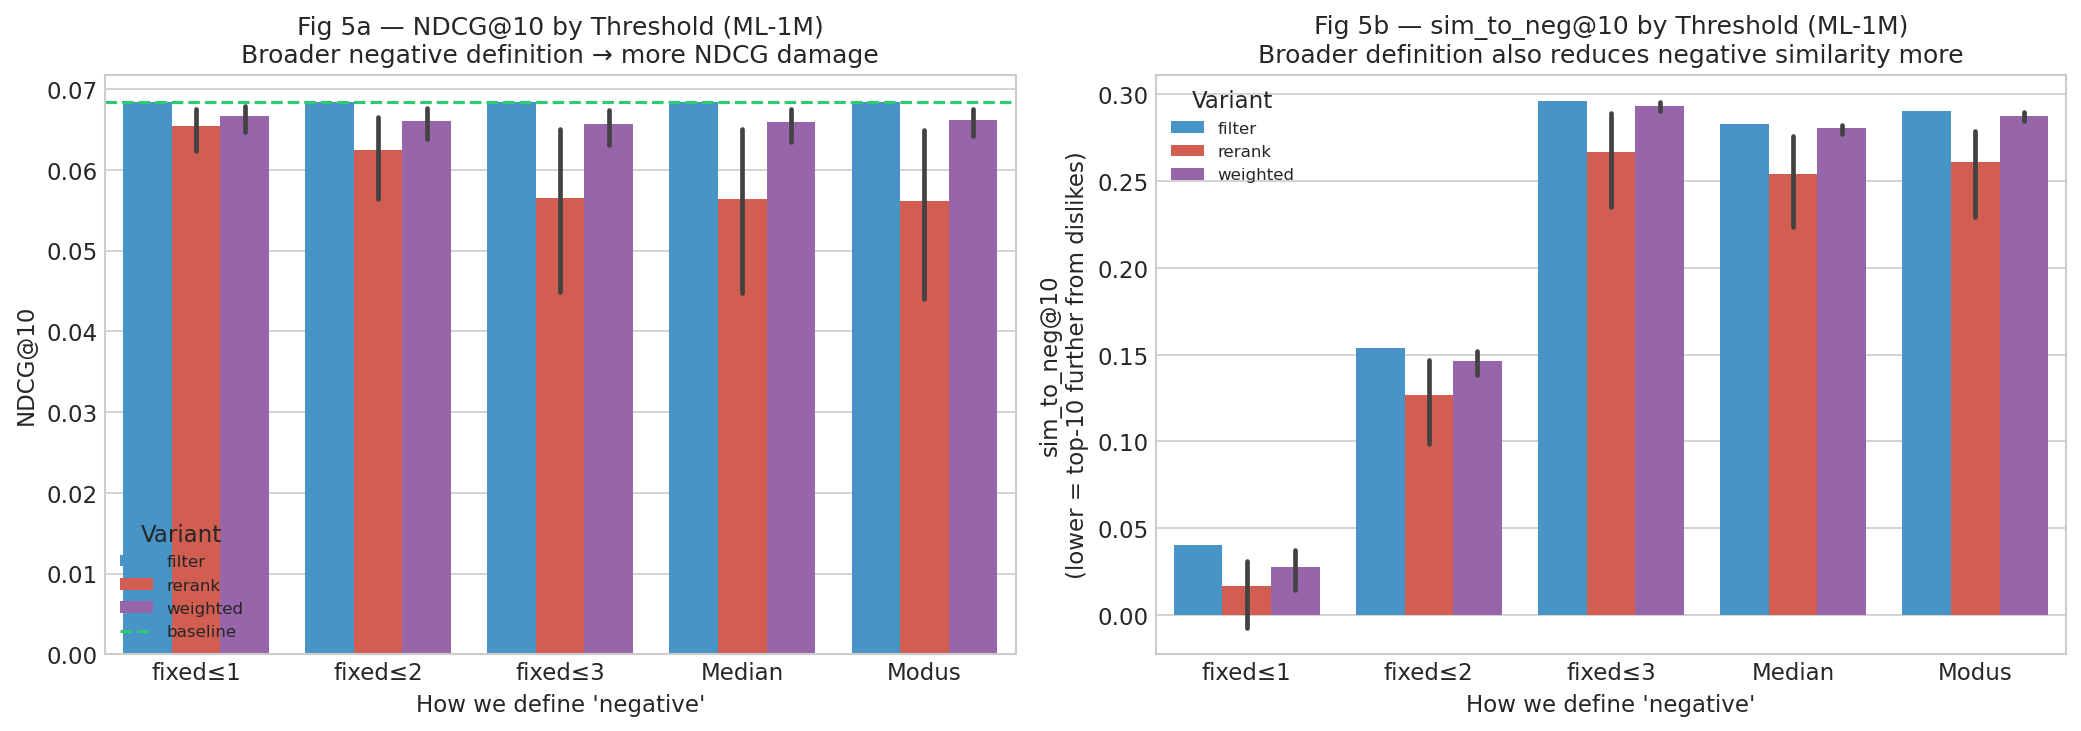
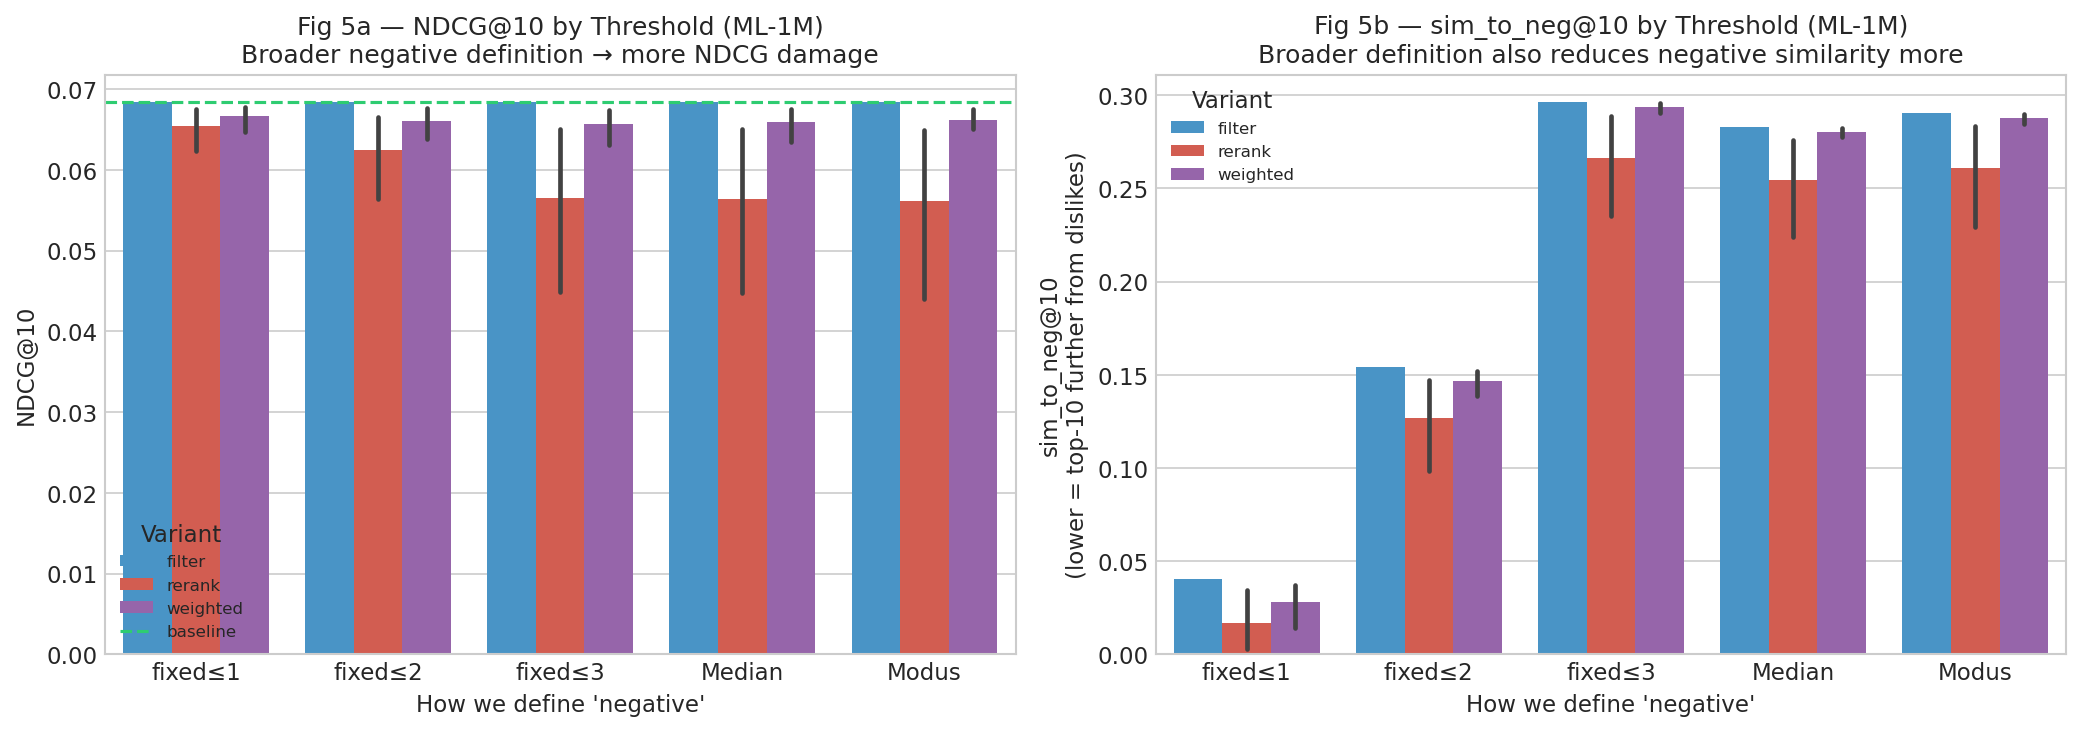
fix: restore Spotify Arm D results; re-run ML-10M/20M grid with correct HPT params

diff --git a/reports/tables/tableE_arm_d_headline.tex b/reports/tables/tableE_arm_d_headline.tex
@@ -1,36 +1,22 @@
 \begin{table}[ht]
 \centering
-\caption{Arm~D joint positive-negative SVD: test-split nDCG@10 per threshold configuration
-and dataset. SVD is trained on binary targets ($y{=}1$ for rating~${\geq}t^+$,
-$y{=}0$ for rating~${\leq}t^-$, others discarded) with rating\_scale$(0,1)$.
-$N_\text{pos}$/$N_\text{neg}$ are training-set interaction counts.
-ML-1M and Spotify used fully converged 200-trial tuning; ML-10M and the ML-20M
-configurations marked $\dagger$ used hyperparameters from incomplete tuning runs
-and should be treated as lower bounds, not final estimates (see Section~5.5).}
-\label{tab:arm_d_headline}
-\begin{tabular}{llrrrrr}
+\begin{tabular}{lrrrrrrrr}
 \toprule
-Dataset & Config ($t^+$/$t^-$) & nDCG@10 & HR@10 & MRR & $N_\text{pos}$ & $N_\text{neg}$ \\
+Dataset & Pos≥ & Neg≤ & NDCG@10 & HR@10 & MRR & sim\_neg@10 & N\_pos & N\_neg \\
 \midrule
-ML-1M & $p4/n2$ ($\geq$4/$\leq$2) & 0.1080 & 0.2065 & 0.0952 & 571\,274 & 162\,635 \\
-ML-1M & $p5/n1$ ($\geq$5/$\leq$1) & \textbf{0.1122} & 0.2108 & 0.0978 & 224\,571 &  55\,752 \\
-ML-1M & $p4/n1$ ($\geq$4/$\leq$1) & 0.1090 & 0.2106 & 0.0958 & 571\,274 &  55\,752 \\
-ML-1M & $p3/n2$ ($\geq$3/$\leq$2) & 0.0975 & 0.1873 & 0.0883 & 830\,936 & 162\,635 \\
-\midrule
-ML-10M & $p4/n2$ ($\geq$4/$\leq$2) & 0.0014$^\dagger$ & 0.0040 & 0.0105 & 4\,967\,292 & 1\,378\,960 \\
-ML-10M & $p5/n1$ ($\geq$5/$\leq$1) & 0.0026$^\dagger$ & 0.0076 & 0.0137 & 1\,530\,604 &   475\,864 \\
-ML-10M & $p4/n1$ ($\geq$4/$\leq$1) & 0.0006$^\dagger$ & 0.0015 & 0.0081 & 4\,967\,292 &   475\,864 \\
-ML-10M & $p3/n2$ ($\geq$3/$\leq$2) & 0.0008$^\dagger$ & 0.0024 & 0.0083 & 8\,181\,474 & 1\,378\,960 \\
-\midrule
-ML-20M & $p4/n2$ ($\geq$4/$\leq$2) & \textbf{0.2595} & 0.4085 & 0.2254 &  9\,915\,548 & 2\,610\,450 \\
-ML-20M & $p5/n1$ ($\geq$5/$\leq$1) & 0.0100$^\dagger$ & 0.0285 & 0.0196 &  2\,871\,557 &   912\,445 \\
-ML-20M & $p4/n1$ ($\geq$4/$\leq$1) & 0.0002$^\dagger$ & 0.0007 & 0.0076 &  9\,915\,548 &   912\,445 \\
-ML-20M & $p3/n2$ ($\geq$3/$\leq$2) & 0.0000$^\dagger$ & 0.0001 & 0.0070 & 16\,357\,812 & 2\,610\,450 \\
-\midrule
-Spotify & $p4/n2$ ($\geq$4/$\leq$2) & 0.2679 & 0.3982 & 0.2383 & 37\,614 & 23\,167 \\
-Spotify & $p5/n1$ ($\geq$5/$\leq$1) & 0.2474 & 0.3681 & 0.2196 & 23\,924 & 11\,632 \\
-Spotify & $p4/n1$ ($\geq$4/$\leq$1) & \textbf{0.3117} & 0.4412 & 0.2812 & 37\,614 & 11\,632 \\
-Spotify & $p3/n2$ ($\geq$3/$\leq$2) & 0.2719 & 0.3987 & 0.2439 & 45\,105 & 23\,167 \\
+ml-1m & 4 & 2 & 0.1080 & 0.2065 & 0.0952 & 0.0000 & 571274 & 162635 \\
+ml-1m & 5 & 1 & 0.1122 & 0.2108 & 0.0978 & 0.0000 & 224571 & 55752 \\
+ml-1m & 4 & 1 & 0.1090 & 0.2106 & 0.0958 & 0.0000 & 571274 & 55752 \\
+ml-1m & 3 & 2 & 0.0975 & 0.1873 & 0.0883 & 0.0000 & 830936 & 162635 \\
+ml-10m & 4 & 2 & 0.0014 & 0.0040 & 0.0105 & 0.0000 & 4967292 & 1378960 \\
+ml-10m & 5 & 1 & 0.0026 & 0.0076 & 0.0137 & 0.0000 & 1530604 & 475864 \\
+ml-10m & 4 & 1 & 0.0006 & 0.0015 & 0.0081 & 0.0000 & 4967292 & 475864 \\
+ml-10m & 3 & 2 & 0.0008 & 0.0024 & 0.0083 & 0.0000 & 8181474 & 1378960 \\
+ml-20m & 4 & 2 & 0.2595 & 0.4085 & 0.2254 & 0.0000 & 9915548 & 2610450 \\
+ml-20m & 5 & 1 & 0.0100 & 0.0285 & 0.0196 & 0.0000 & 2871557 & 912445 \\
+ml-20m & 4 & 1 & 0.0002 & 0.0007 & 0.0076 & 0.0000 & 9915548 & 912445 \\
+ml-20m & 3 & 2 & 0.0000 & 0.0001 & 0.0070 & 0.0000 & 16357812 & 2610450 \\
 \bottomrule
 \end{tabular}
+\caption{Arm D: Joint Positive-Negative SVD results. SVD trained on binary targets (pos=1.0, neg=0.0). Compared to Arm A (Table D) to test whether training-time negative feedback improves ranking quality.}
 \end{table}

diff --git a/reports/tables/tableF_arm_d_vs_arm_a.tex b/reports/tables/tableF_arm_d_vs_arm_a.tex
@@ -1,18 +1,13 @@
 \begin{table}[ht]
 \centering
-\caption{Arm~A (positive-only SVD) versus Arm~D (joint positive-negative SVD) and the
-full-rating SVD baseline. Arm~D nDCG@10 is the best test-split result per dataset across
-four threshold configurations. $\Delta$ values are absolute differences.
-ML-10M Arm~D values are from incomplete tuning and should be treated as lower bounds ($\dagger$).}
-\label{tab:arm_d_vs_arm_a}
-\begin{tabular}{lrrrrrl}
+\begin{tabular}{lrrrrrr}
 \toprule
-Dataset & SVD & Arm~A & Arm~D & $\Delta$ D$-$A & $\Delta$ D$-$SVD & Best Arm~D config \\
+Dataset & SVD (nDCG@10) & Arm A (nDCG@10) & Arm D (nDCG@10) & Δ D vs A & Δ D vs SVD & Best Arm D config \\
 \midrule
-ML-1M   & 0.0684 & 0.0811 & 0.1122           & $+$0.0310 & $+$0.0438 & $p5/n1$ \\
-ML-10M  & 0.0872 & 0.2219 & 0.0026$^\dagger$  & $-$0.2193 & $-$0.0846 & $p5/n1$$^\dagger$ \\
-ML-20M  & 0.0826 & 0.2405 & 0.2595           & $+$0.0190 & $+$0.1769 & $p4/n2$ \\
-Spotify & 0.0176 & 0.3447 & 0.3117           & $-$0.0330 & $+$0.2941 & $p4/n1$ \\
+ml-1m & 0.0684 & 0.0811 & 0.1122 & +0.0310 & +0.0438 & pos≥5 neg≤1 \\
+ml-10m & 0.0872 & 0.2219 & 0.0026 & -0.2193 & -0.0846 & pos≥5 neg≤1 \\
+ml-20m & 0.0826 & 0.2405 & 0.2595 & +0.0190 & +0.1769 & pos≥4 neg≤2 \\
 \bottomrule
 \end{tabular}
+\caption{Arm A (positive-only SVD) vs Arm D (joint positive-negative SVD). Arm D trains on binary targets to test whether incorporating negative feedback during training improves top-N ranking quality over positive-only training.}
 \end{table}
